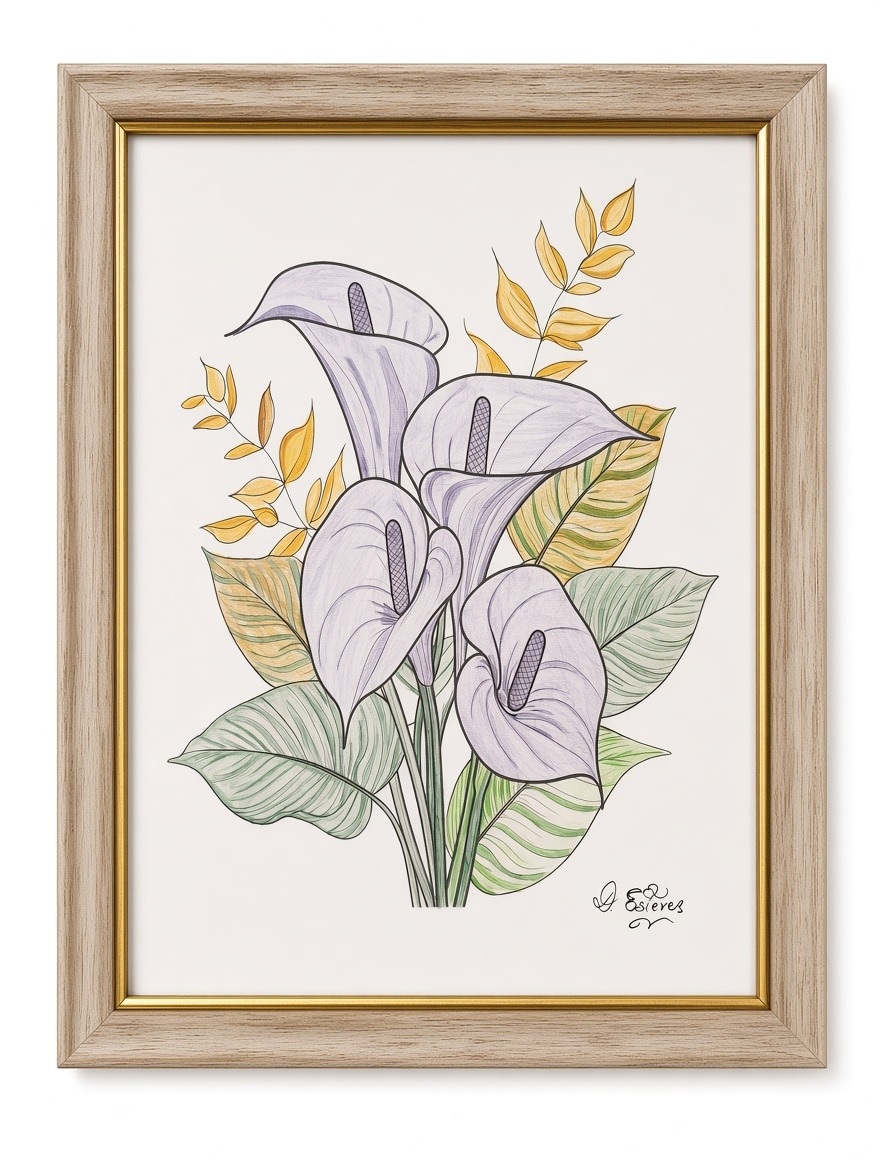
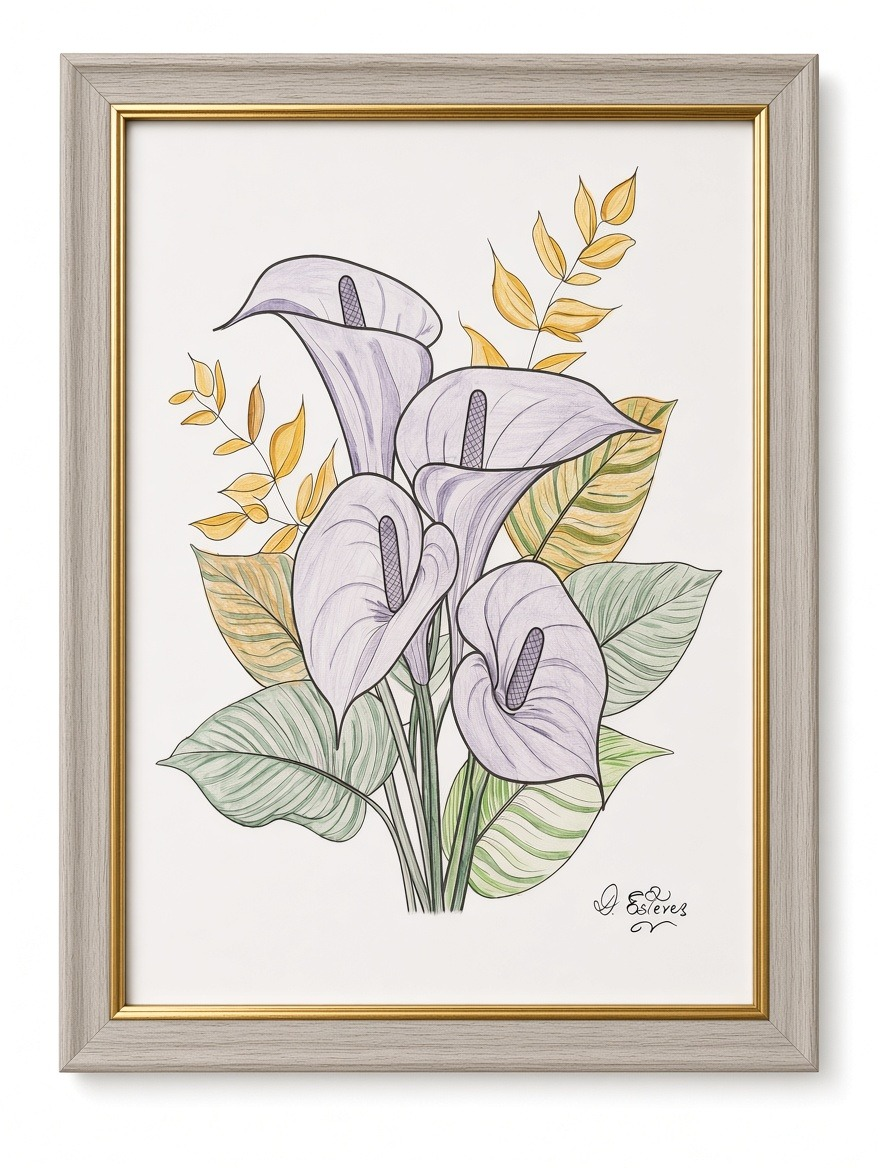
Trocar fotos dos quadros 29 e 30 e retirar 31 e 32
Claude-Session: https://claude.ai/code/session_01NUiqCZoHef47n7JWzGmPuU

diff --git a/index.html b/index.html
@@ -669,26 +669,6 @@ const SITE = {
       preco: null,
       estado: "disponivel",
       descricao: "Um ramo de flores em laranja, vermelho e amarelo, com pequenas flores verdes."
-    },
-    {
-      titulo: "31",
-      imagem: "img/quadros/q31.jpg",
-      moldura: "foto",
-      tecnica: "Lápis de cor sobre papel",
-      medidas: "",
-      preco: null,
-      estado: "disponivel",
-      descricao: "Um ramo de flores em laranja, vermelho e amarelo, com pequenas flores verdes."
-    },
-    {
-      titulo: "32",
-      imagem: "img/quadros/q32.jpg",
-      moldura: "foto",
-      tecnica: "Lápis de cor sobre papel",
-      medidas: "",
-      preco: null,
-      estado: "disponivel",
-      descricao: "Copos-de-leite lilás com folhas verdes e douradas."
     }
   ]
 };
